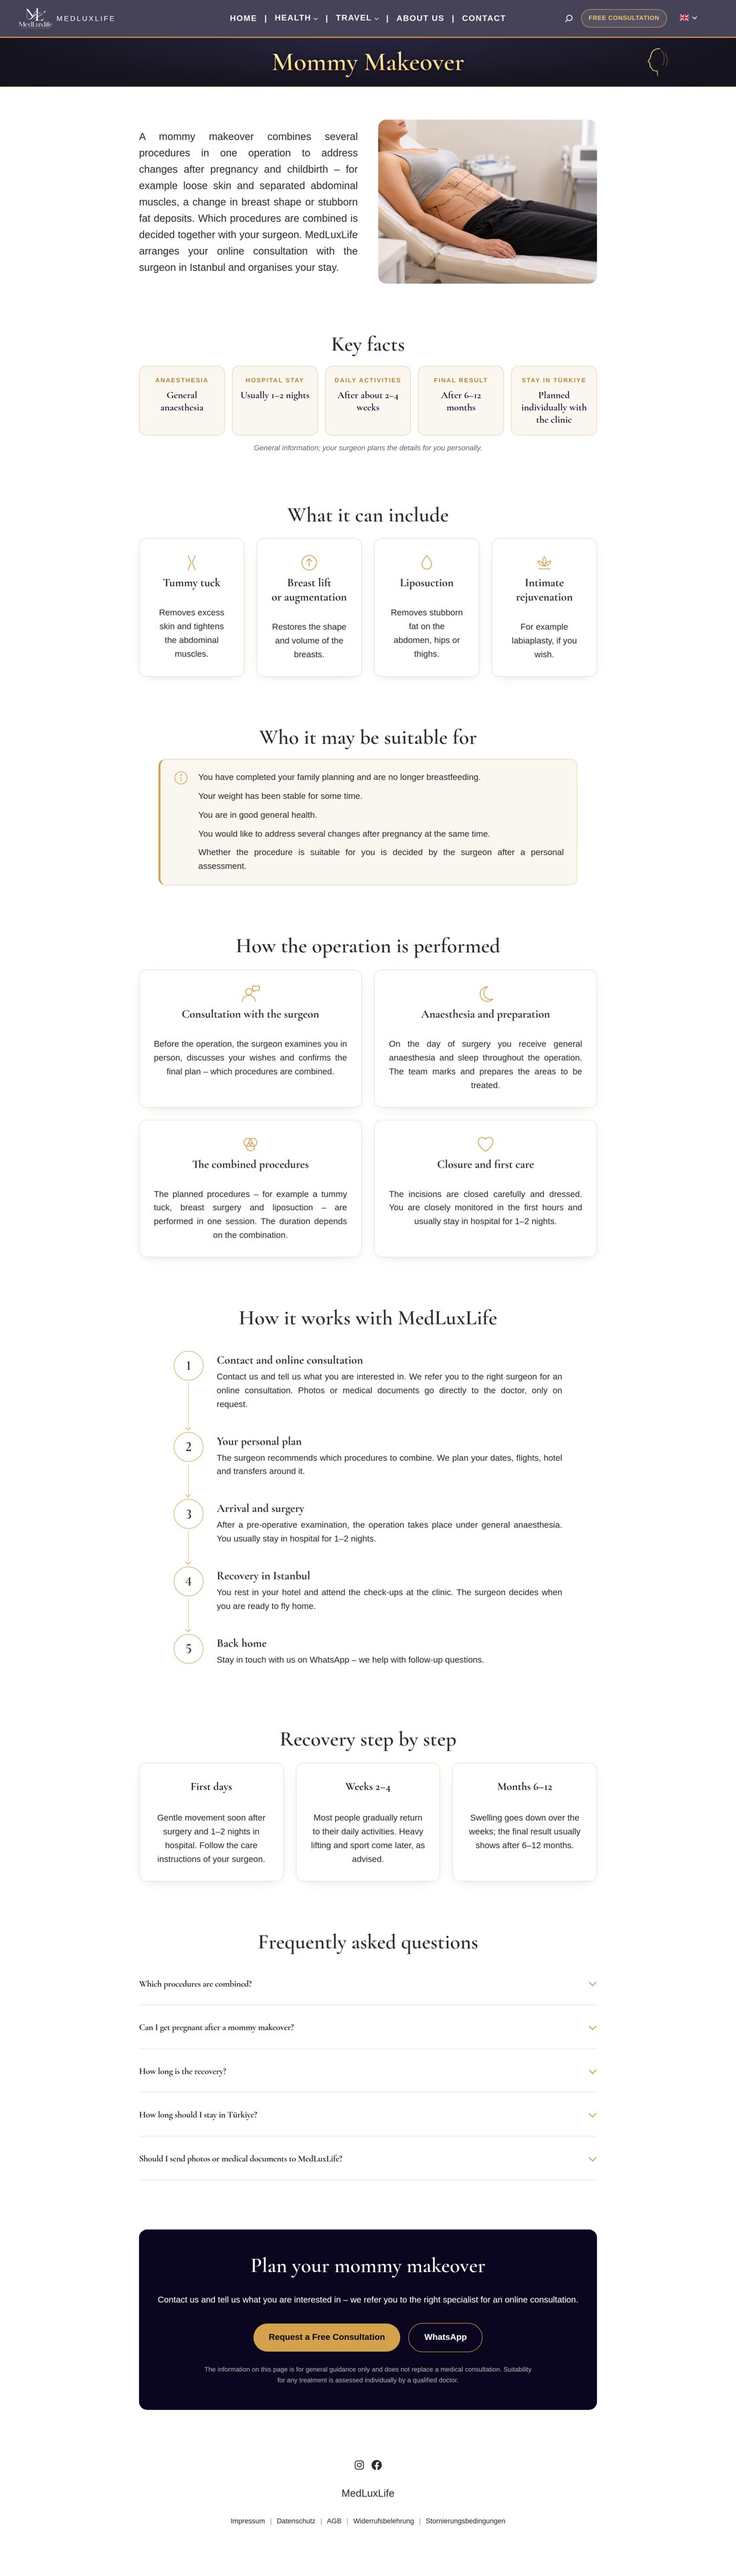
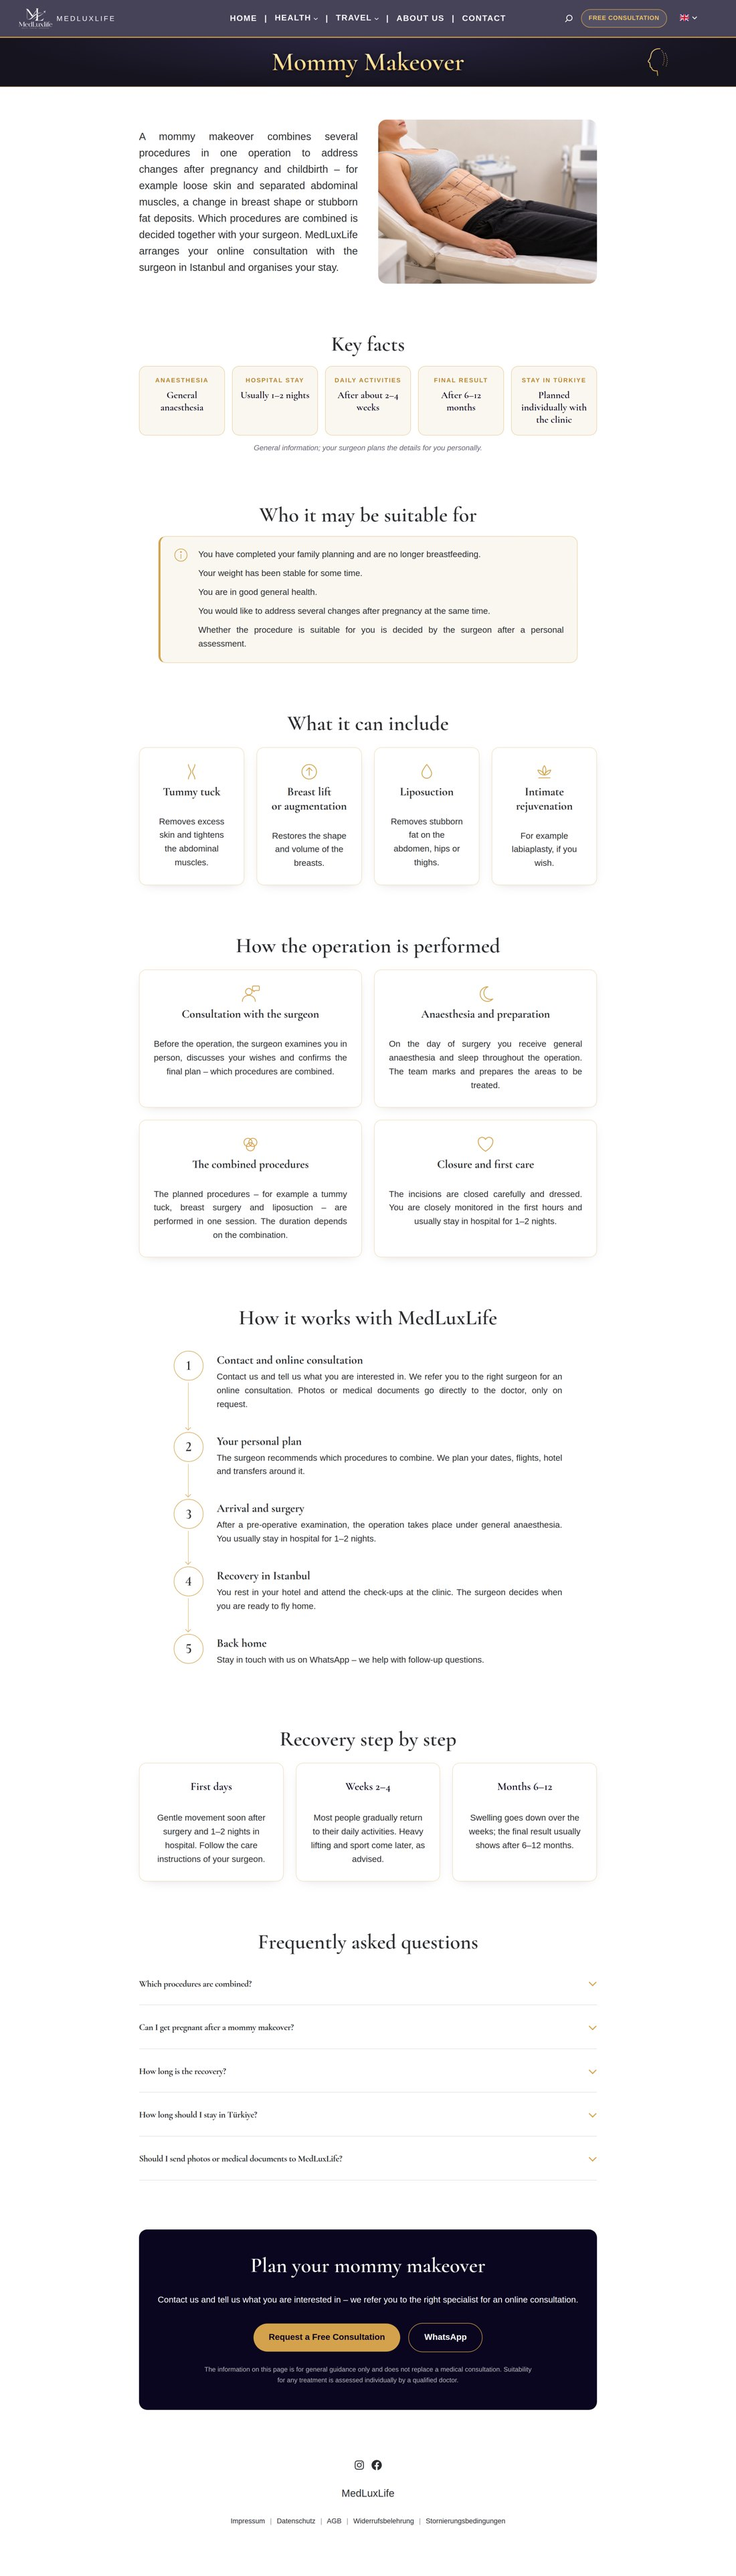
Mommy Makeover: suitable-for section moved right after Key facts
Claude-Session: https://claude.ai/code/session_01EVvR33Af5MGSBck832Nn7m

diff --git a/content/mommy_makeover.html b/content/mommy_makeover.html
@@ -74,6 +74,30 @@
 <!-- /wp:paragraph --></div>
 <!-- /wp:group -->
 
+<!-- wp:group {"className":"medlux-section medlux-good-to-know","layout":{"type":"constrained"}} -->
+<div class="wp-block-group medlux-section medlux-good-to-know"><!-- wp:heading -->
+<h2 class="wp-block-heading">Who it may be suitable for</h2>
+<!-- /wp:heading -->
+
+<!-- wp:list -->
+<ul class="wp-block-list"><!-- wp:list-item -->
+<li>You have completed your family planning and are no longer breastfeeding.</li>
+<!-- /wp:list-item -->
+<!-- wp:list-item -->
+<li>Your weight has been stable for some time.</li>
+<!-- /wp:list-item -->
+<!-- wp:list-item -->
+<li>You are in good general health.</li>
+<!-- /wp:list-item -->
+<!-- wp:list-item -->
+<li>You would like to address several changes after pregnancy at the same time.</li>
+<!-- /wp:list-item -->
+<!-- wp:list-item -->
+<li>Whether the procedure is suitable for you is decided by the surgeon after a personal assessment.</li>
+<!-- /wp:list-item --></ul>
+<!-- /wp:list --></div>
+<!-- /wp:group -->
+
 <!-- wp:group {"className":"medlux-section","layout":{"type":"constrained"}} -->
 <div class="wp-block-group medlux-section"><!-- wp:heading -->
 <h2 class="wp-block-heading">What it can include</h2>
@@ -136,30 +160,6 @@
 <!-- /wp:paragraph --></div>
 <!-- /wp:group --></div>
 <!-- /wp:group --></div>
-<!-- /wp:group -->
-
-<!-- wp:group {"className":"medlux-section medlux-good-to-know","layout":{"type":"constrained"}} -->
-<div class="wp-block-group medlux-section medlux-good-to-know"><!-- wp:heading -->
-<h2 class="wp-block-heading">Who it may be suitable for</h2>
-<!-- /wp:heading -->
-
-<!-- wp:list -->
-<ul class="wp-block-list"><!-- wp:list-item -->
-<li>You have completed your family planning and are no longer breastfeeding.</li>
-<!-- /wp:list-item -->
-<!-- wp:list-item -->
-<li>Your weight has been stable for some time.</li>
-<!-- /wp:list-item -->
-<!-- wp:list-item -->
-<li>You are in good general health.</li>
-<!-- /wp:list-item -->
-<!-- wp:list-item -->
-<li>You would like to address several changes after pregnancy at the same time.</li>
-<!-- /wp:list-item -->
-<!-- wp:list-item -->
-<li>Whether the procedure is suitable for you is decided by the surgeon after a personal assessment.</li>
-<!-- /wp:list-item --></ul>
-<!-- /wp:list --></div>
 <!-- /wp:group -->
 
 <!-- wp:group {"className":"medlux-section","layout":{"type":"constrained"}} -->

diff --git a/tools/build_mommy.py b/tools/build_mommy.py
@@ -155,5 +155,5 @@ cta = group('medlux-cta', [
     p('The information on this page is for general guidance only and does not replace a medical consultation. Suitability for any treatment is assessed individually by a qualified doctor.', 'medlux-disclaimer'),
 ])
 
-(ROOT / 'content/mommy_makeover.html').write_text('\n\n'.join([intro, facts, include, suitable, performed, how, recovery, faqs, cta]) + '\n')
+(ROOT / 'content/mommy_makeover.html').write_text('\n\n'.join([intro, facts, suitable, include, performed, how, recovery, faqs, cta]) + '\n')
 print('written', len((ROOT / 'content/mommy_makeover.html').read_text()))

diff --git a/PROJECT.md b/PROJECT.md
@@ -599,3 +599,4 @@ Access: WP REST via https://medluxlife-6j8sz55bpn.live-website.com/wp-json (prox
   - new section "How the operation is performed", 2 × 2 icon cards: consultation with the surgeon / anaesthesia and preparation / the combined procedures / closure and first care. The texts are justified with the last line centred (class `.medlux-stages`; based on the stages on the clinic's page, in our own words, no durations invented).
   - "At a glance" → "Key facts" (a more common phrase).
   - Backup before: `backups/wp/page2293_before_operation_stages.json`. Screenshots: `deliverables/mommy_operation_stages.jpg`, `mommy_makeover_laptop.jpg`, `mommy_makeover_phone.jpg`.
+- 2026-10-18 – Mommy Makeover (Anna): new section order: intro → Key facts → Who it may be suitable for → What it can include → How the operation is performed → How it works with MedLuxLife → Recovery → FAQ → CTA. The name for "Key facts" is open (options sent: Quick facts / Overview / The essentials / In brief / Treatment facts).
